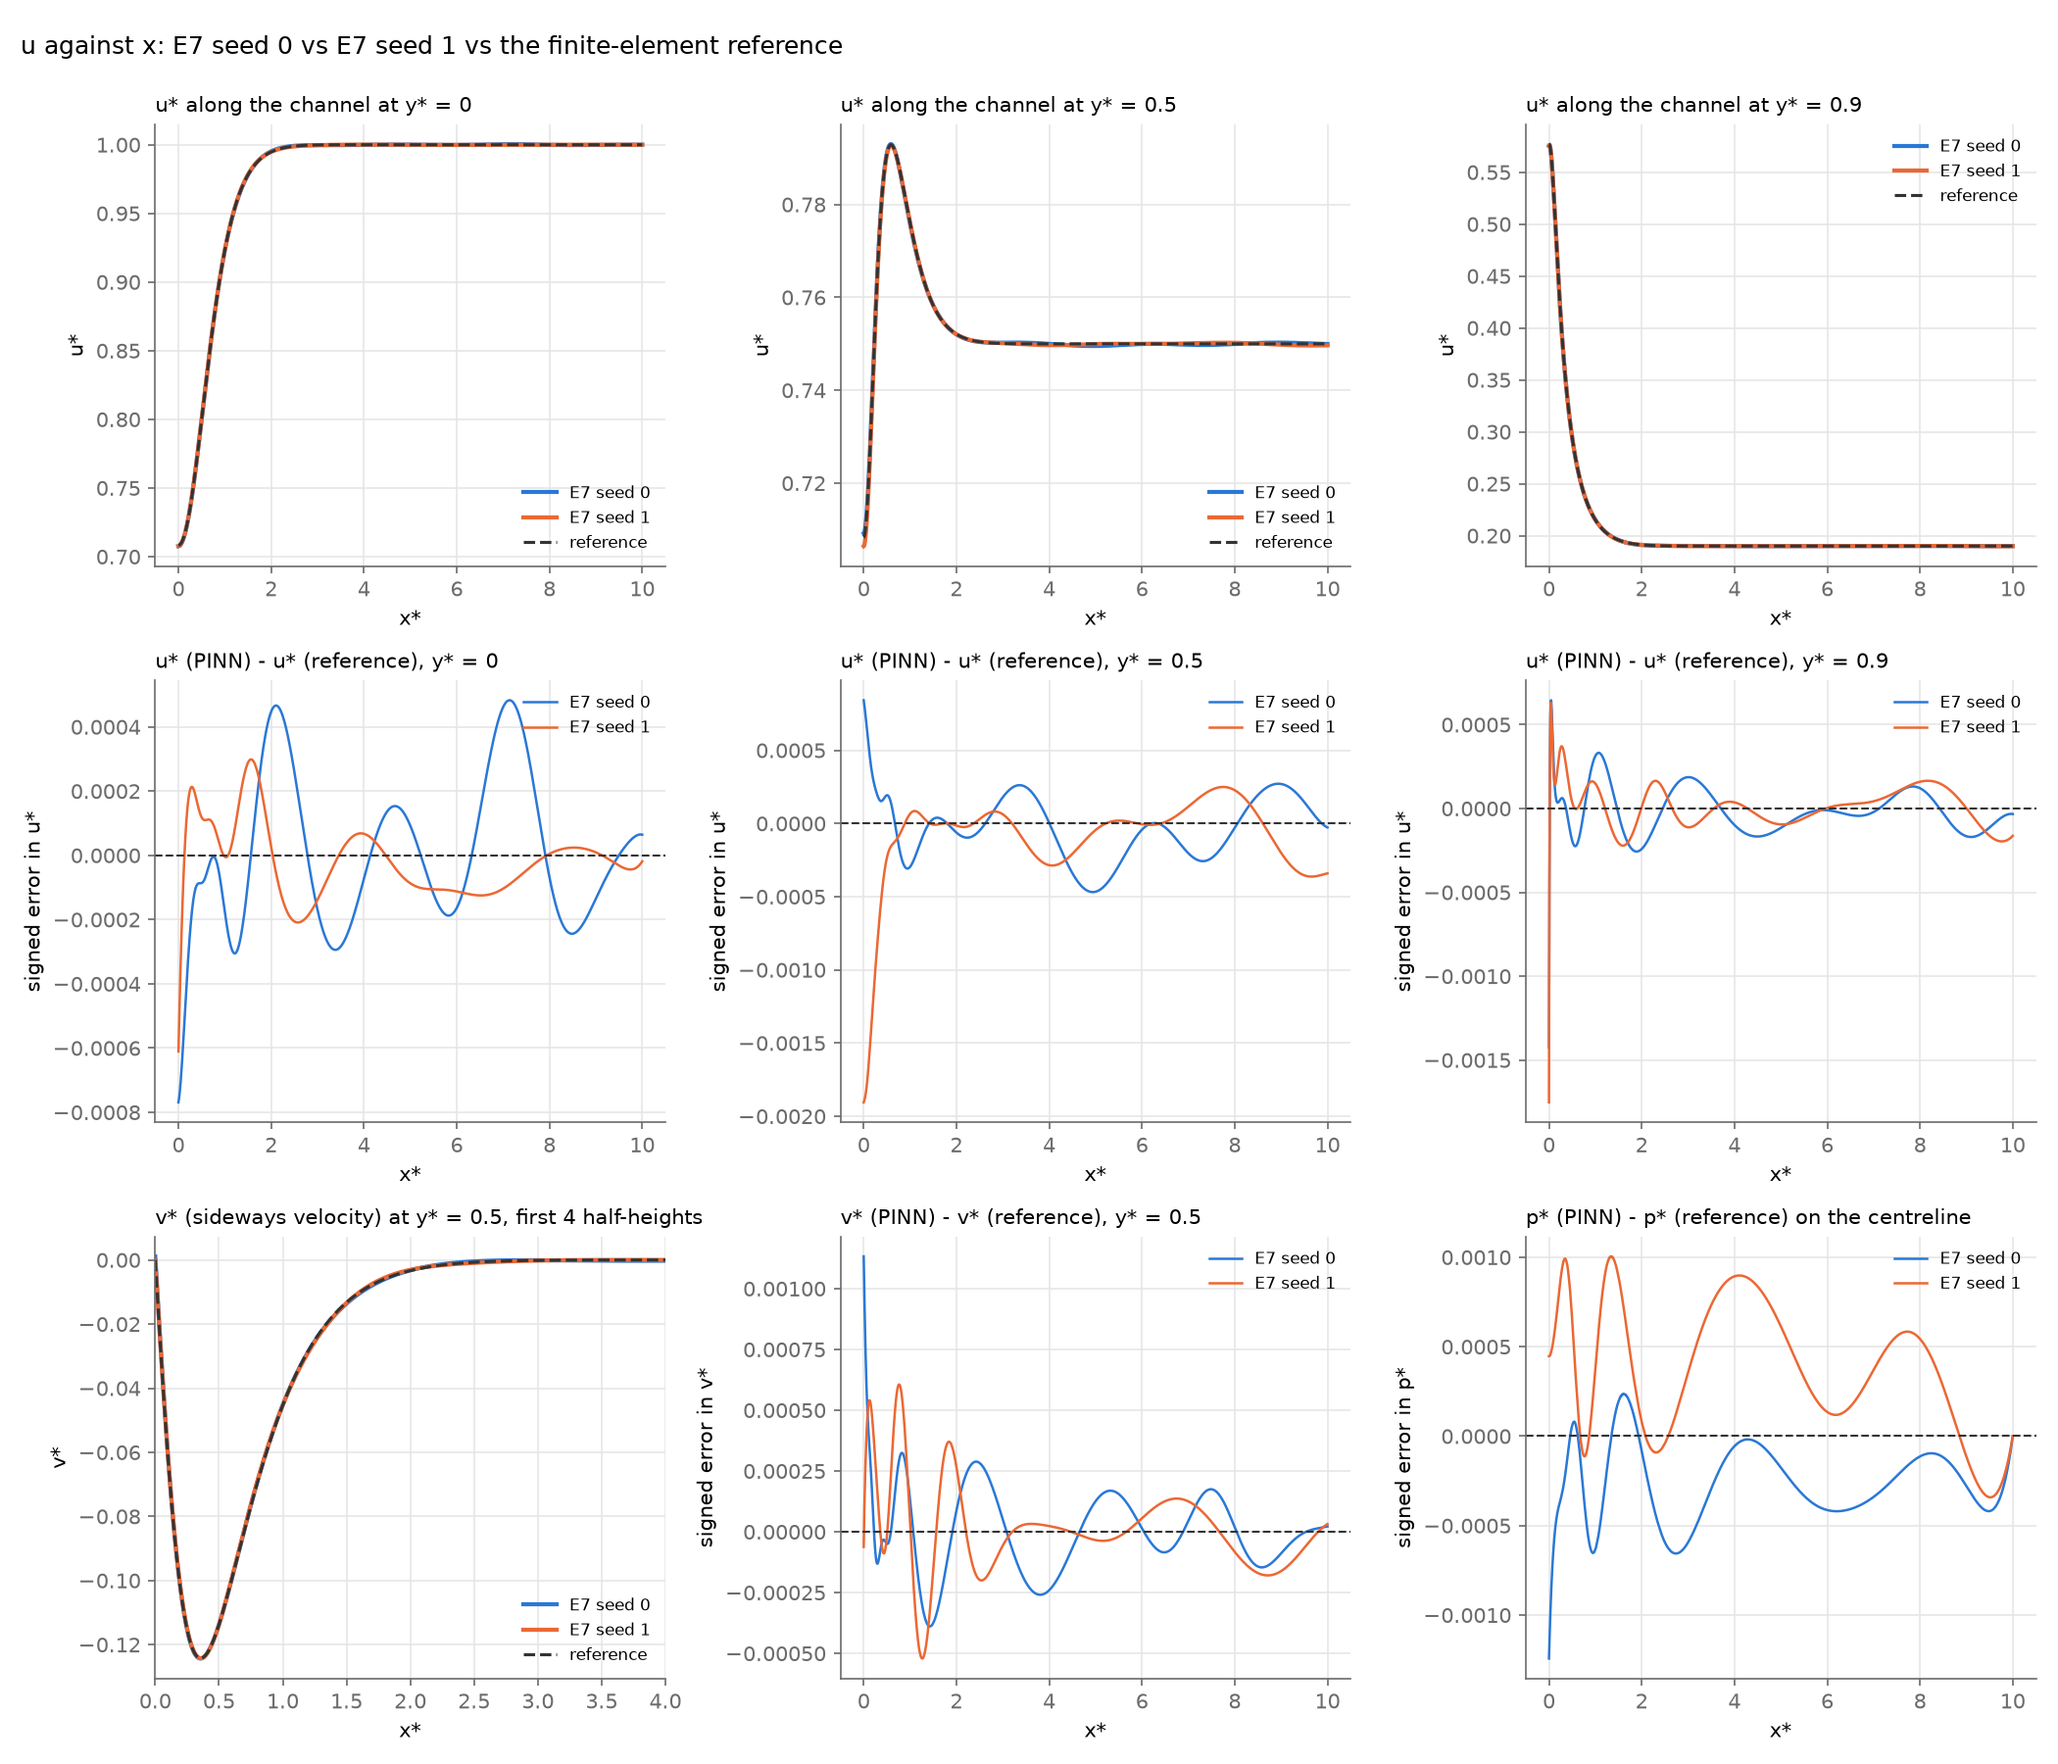
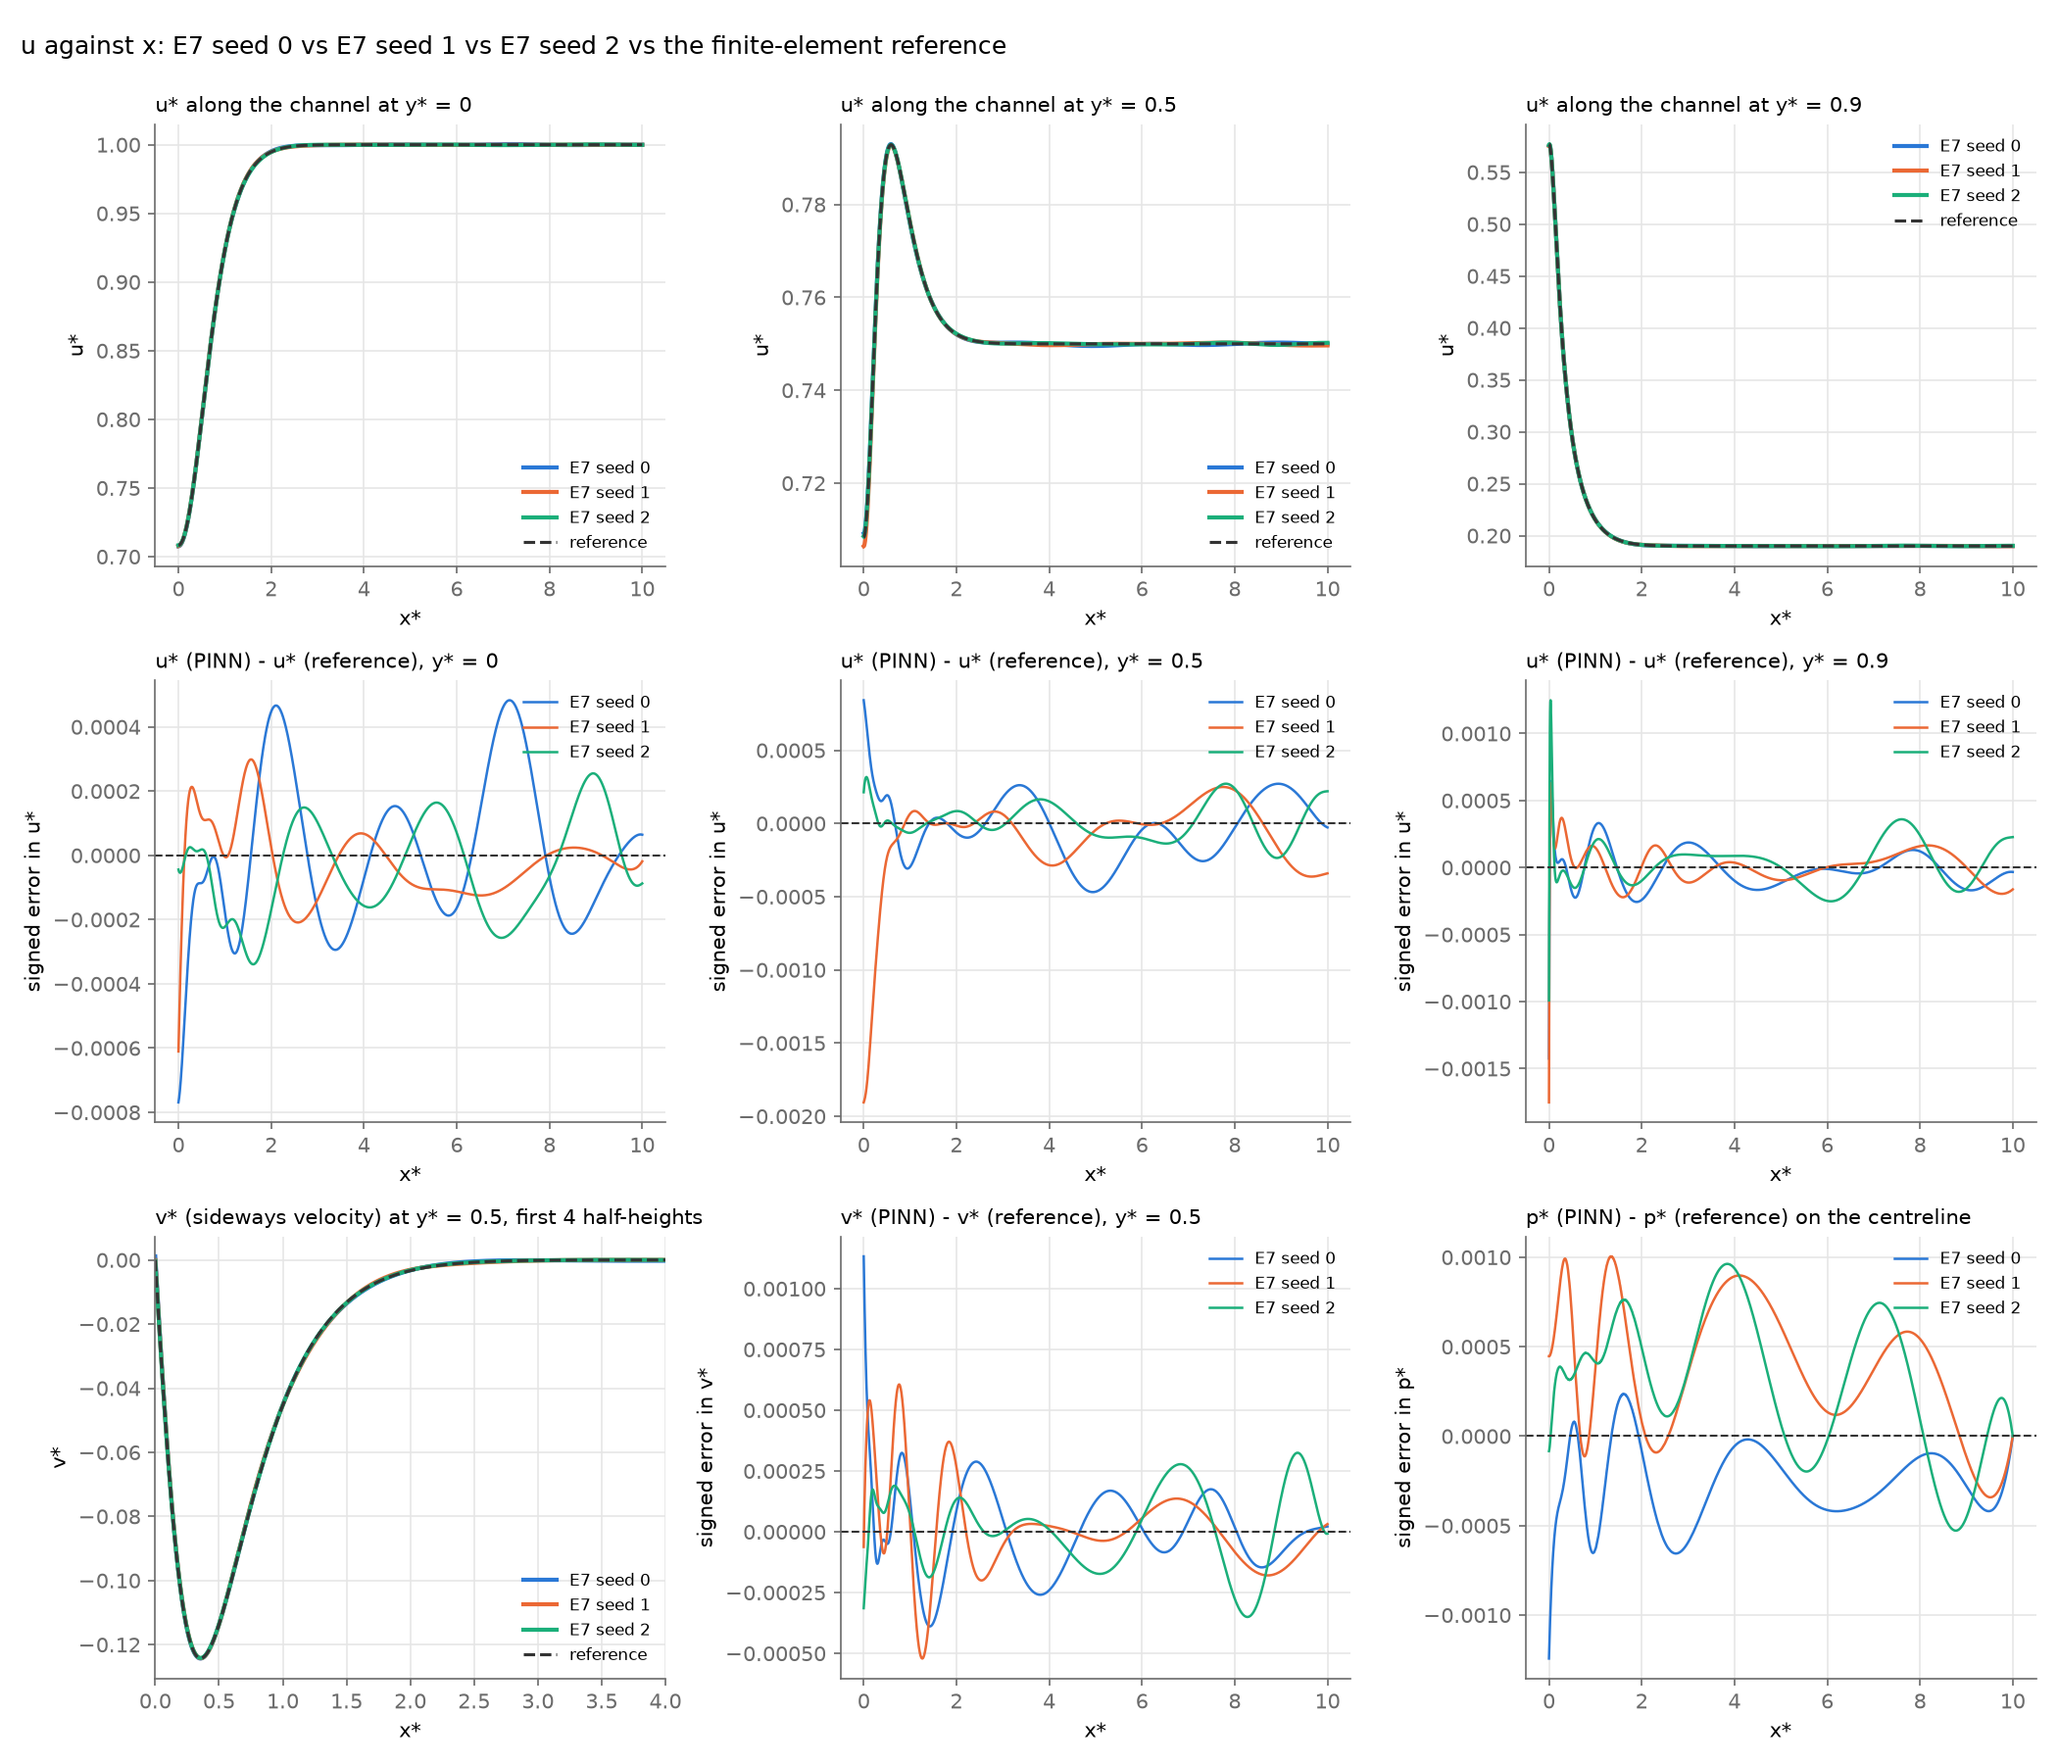
Add E7 seed 2 to the stream-function comparison against the reference
Seed 2: u 2.64e-4 over the channel (seeds 0-1: 3.36-3.45e-4), entrance
region 3.16e-4, v 8.0e-3, p 9.0e-4, entrance length +0.58%. Across three
seeds E7's whole-channel u error is 2.6-3.5e-4 and its entrance-region error
3.2-4.7e-4; seeds 1-2's wall times (108, 100 min vs 72) are inflated by
other work sharing the CPU.

Claude-Session: https://claude.ai/code/session_01AbTrWc9Te1W9eJvisv3vV1

diff --git a/docs/developing_re10-stream-seeds-tables.md b/docs/developing_re10-stream-seeds-tables.md
@@ -6,6 +6,7 @@ The reference's own error is about 1e-6 in u (mesh convergence, docs/developing_
 |---|---|---|---|---|---|---|---|---|---|
 | E7 seed 0 | 3.45e-04 | 4.15e-04 | 2.96e-04 | 3.25e-03 | 7.34e-03 | 6.26e-04 | 1.7701 (-0.52%) | 1.95e-05 | 72.3 |
 | E7 seed 1 | 3.36e-04 | 4.74e-04 | 2.18e-04 | 4.88e-03 | 7.45e-03 | 9.41e-04 | 1.7721 (-0.41%) | 2.86e-05 | 107.9 |
+| E7 seed 2 | 2.64e-04 | 3.16e-04 | 2.28e-04 | 4.08e-03 | 7.97e-03 | 9.02e-04 | 1.7898 (+0.58%) | 2.57e-05 | 99.8 |
 
 ## Table 2. u across the channel at each station, against the reference
 
@@ -13,16 +14,22 @@ The reference's own error is about 1e-6 in u (mesh convergence, docs/developing_
 |---|---|---|---|---|---|---|
 | 0 | E7 seed 0 | 1.95e-03 | 3.25e-03 | -0.826 | 7.60e-03 | 0.00e+00 |
 | 0 | E7 seed 1 | 2.61e-03 | 4.29e-03 | +0.808 | 9.39e-03 | 0.00e+00 |
+| 0 | E7 seed 2 | 1.95e-03 | 3.93e-03 | -0.826 | 8.89e-03 | 0.00e+00 |
 | 0.5 | E7 seed 0 | 3.77e-04 | 5.71e-04 | +0.198 | 1.72e-04 | 1.14e-01 |
 | 0.5 | E7 seed 1 | 3.01e-04 | 5.28e-04 | +0.620 | 2.79e-04 | 1.14e-01 |
+| 0.5 | E7 seed 2 | 1.17e-04 | 2.01e-04 | -0.870 | 1.99e-04 | 1.14e-01 |
 | 1 | E7 seed 0 | 3.33e-04 | 4.68e-04 | +0.390 | 2.75e-04 | 4.73e-02 |
 | 1 | E7 seed 1 | 2.29e-04 | 3.84e-04 | +0.326 | 1.96e-04 | 4.73e-02 |
+| 1 | E7 seed 2 | 1.68e-04 | 2.61e-04 | +0.070 | 1.62e-04 | 4.73e-02 |
 | 2 | E7 seed 0 | 3.89e-04 | 5.17e-04 | -0.094 | 9.85e-05 | 3.70e-03 |
 | 2 | E7 seed 1 | 1.23e-04 | 1.95e-04 | -0.160 | 3.36e-04 | 3.70e-03 |
+| 2 | E7 seed 2 | 1.32e-04 | 1.83e-04 | -0.040 | 2.87e-04 | 3.70e-03 |
 | 4 | E7 seed 0 | 1.66e-04 | 2.38e-04 | -0.658 | 3.86e-04 | 3.76e-06 |
 | 4 | E7 seed 1 | 2.14e-04 | 2.92e-04 | -0.366 | 1.57e-04 | 3.76e-06 |
+| 4 | E7 seed 2 | 1.49e-04 | 2.41e-04 | +0.600 | 1.70e-04 | 3.76e-06 |
 | 10 | E7 seed 0 | 1.60e-04 | 2.56e-04 | +0.190 | 7.20e-05 | 2.61e-12 |
 | 10 | E7 seed 1 | 3.55e-04 | 5.38e-04 | -0.390 | 6.70e-05 | 2.61e-12 |
+| 10 | E7 seed 2 | 2.48e-04 | 3.06e-04 | -0.836 | 4.18e-05 | 2.61e-12 |
 
 ## Table 3. u along the channel at each height, against the reference
 
@@ -30,7 +37,10 @@ The reference's own error is about 1e-6 in u (mesh convergence, docs/developing_
 |---|---|---|---|---|---|---|---|---|---|
 | 0 | E7 seed 0 | 0.92305 | 0.92323 | 0.99525 | 0.99480 | 1.00006 | 1.00000 | 7.69e-04 | 0.000 |
 | 0 | E7 seed 1 | 0.92322 | 0.92323 | 0.99483 | 0.99480 | 0.99998 | 1.00000 | 6.11e-04 | 0.000 |
+| 0 | E7 seed 2 | 0.92301 | 0.92323 | 0.99463 | 0.99480 | 0.99991 | 1.00000 | 3.39e-04 | 1.610 |
 | 0.5 | E7 seed 0 | 0.77577 | 0.77606 | 0.75202 | 0.75208 | 0.74997 | 0.75000 | 8.42e-04 | 0.000 |
 | 0.5 | E7 seed 1 | 0.77613 | 0.77606 | 0.75207 | 0.75208 | 0.74966 | 0.75000 | 1.91e-03 | 0.000 |
+| 0.5 | E7 seed 2 | 0.77600 | 0.77606 | 0.75217 | 0.75208 | 0.75022 | 0.75000 | 3.18e-04 | 0.060 |
 | 0.9 | E7 seed 0 | 0.21539 | 0.21508 | 0.19093 | 0.19117 | 0.18997 | 0.19000 | 1.42e-03 | 0.000 |
 | 0.9 | E7 seed 1 | 0.21523 | 0.21508 | 0.19118 | 0.19117 | 0.18984 | 0.19000 | 1.75e-03 | 0.000 |
+| 0.9 | E7 seed 2 | 0.21528 | 0.21508 | 0.19107 | 0.19117 | 0.19023 | 0.19000 | 1.25e-03 | 0.035 |
